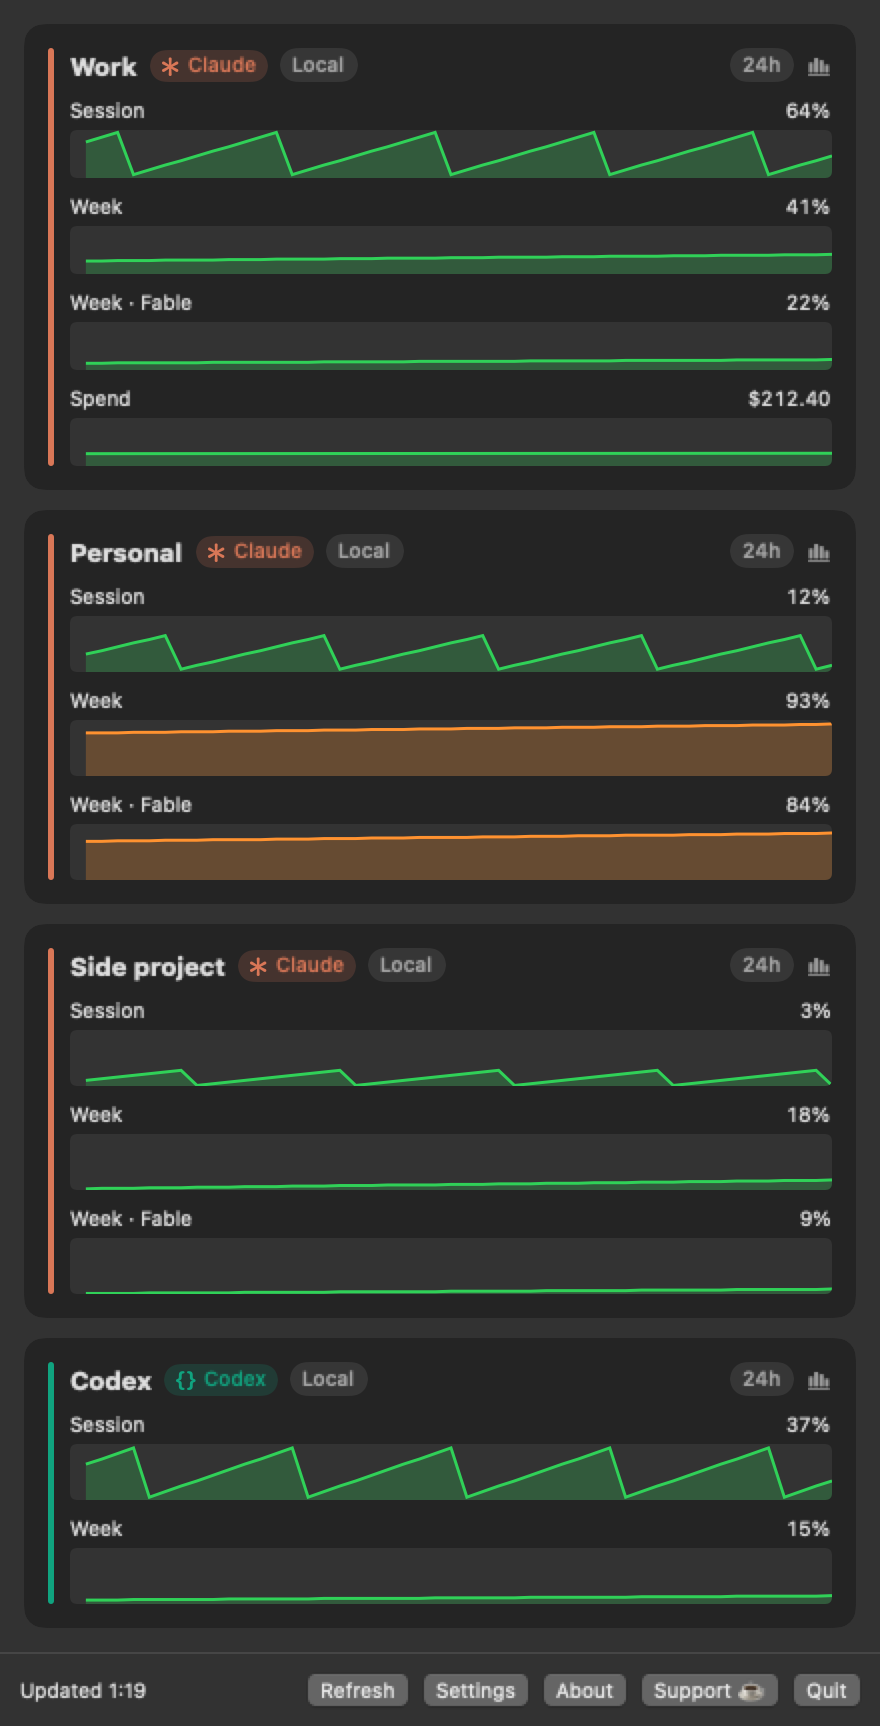
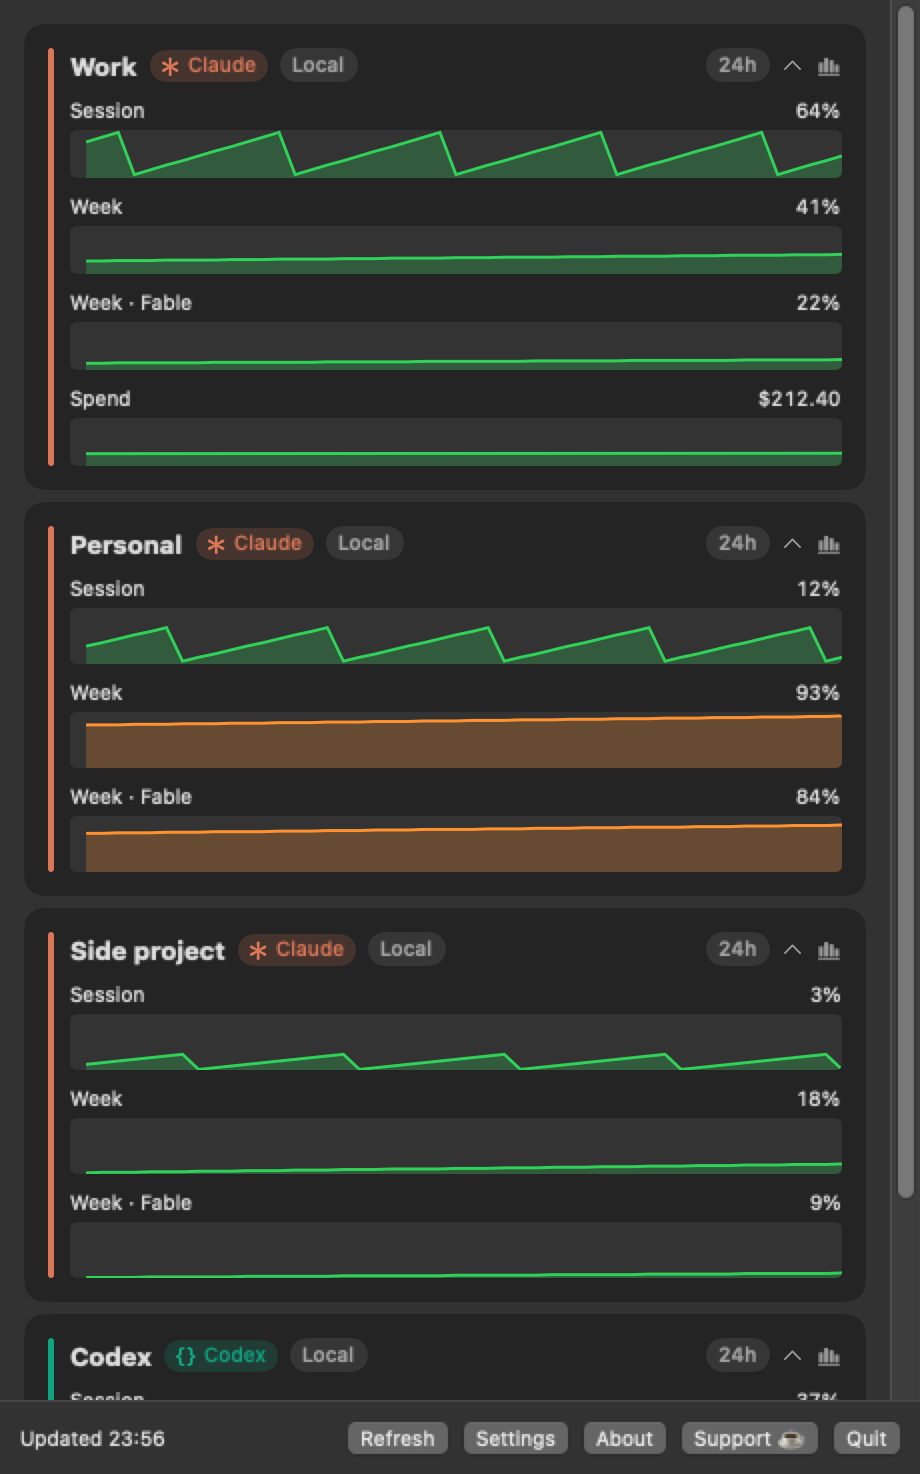
Docs: 1.8.0 screenshots (compact popover, More page, OpenRouter settings, spend rule)
Re-rendered offscreen with fake data: popover.png is the compact popover with
the OpenRouter row and two pinned keys, graphs.png shows expanded cards at the
460 pt width, settings-accounts.png shows the Show in pop-up. New
popover-more.png, settings-openrouter.png and spend-rule.png, referenced from
the README and the user guide. toasts.png is unchanged.

Changed region(s): [[0.0307, 0.0, 1.0, 0.9986], [0.0307, 0.9674, 0.1841, 0.9986]]

diff --git a/Scripts/render-screenshots/Sources/render/main.swift b/Scripts/render-screenshots/Sources/render/main.swift
@@ -99,11 +99,14 @@ MainActor.assumeIsolated {
     store.accounts = snaps.map(\.0)
     for (a, s) in snaps { store.states[a.id] = .ok(s); store.history[a.id] = samples(for: a, snap: s) }
     store.lastRefresh = now
-    render(PopoverView(), size: CGSize(width: 440, height: 0), name: "popover")
+    // Every card expanded and turned over to its graphs.
+    store.expandedAccounts = Set(snaps.map(\.0.id))
     RenderHooks.flipCards = true
-    render(PopoverView(), size: CGSize(width: 440, height: 0), name: "graphs")
+    render(PopoverView(), size: CGSize(width: 460, height: 0), name: "graphs")
     RenderHooks.flipCards = false
-    store.accounts = snaps.map(\.0)
+    store.expandedAccounts = []
+    // One of each placement in the Show in pop-ups.
+    store.accounts = zip(snaps.map(\.0), [Placement.menuBar, .popover, .more, .menuBar]).map { var a = $0; a.placement = $1; return a }
     render(AccountsTab().frame(width: 460, height: 340), size: CGSize(width: 460, height: 340), name: "settings-accounts")
 
     // Compact popover: four Claude accounts (one with an expired login) and Codex, collapsed, then one expanded.
@@ -147,13 +150,13 @@ MainActor.assumeIsolated {
     }
     store.settings.openRouter.managementKeyConfigured = true
     store.openRouterState = .ok(OpenRouterSnapshot(keys: usages, balance: OpenRouterBalance(totalCredits: 100, totalUsage: 57.83)))
-    render(PopoverView(), size: CGSize(width: 460, height: 0), name: "popover-openrouter")
+    render(PopoverView(), size: CGSize(width: 460, height: 0), name: "popover")
     render(PopoverView(), size: CGSize(width: 460, height: 0), name: "popover-openrouter-light", dark: false)
     var archive = claude("Archive", "/Users/example/.claude-archive")
     archive.placement = .more
     store.accounts.append(archive)
     store.states[archive.id] = .ok(snaps[2].1)
-    render(MorePage(filter: .constant(""), onBack: {}, onRepaste: { _ in }), size: CGSize(width: 460, height: 0), name: "more-page")
+    render(MorePage(filter: .constant(""), onBack: {}, onRepaste: { _ in }), size: CGSize(width: 460, height: 0), name: "popover-more")
     store.openRouterState = .stale(OpenRouterSnapshot(keys: usages, balance: OpenRouterBalance(totalCredits: 100, totalUsage: 57.83),
                                                       fetchedAt: now.addingTimeInterval(-720)),
                                    error: "Can't reach OpenRouter: timed out")
@@ -164,13 +167,14 @@ MainActor.assumeIsolated {
     render(PopoverView(), size: CGSize(width: 460, height: 0), name: "popover-openrouter-error")
     render(MorePage(filter: .constant(""), onBack: {}, onRepaste: { _ in }), size: CGSize(width: 460, height: 0), name: "more-page-empty")
 
-    // Settings → OpenRouter (pane size as in SettingsWindow) with the four example rules, then the two sheets.
-    store.openRouterKeys = usages.prefix(11).enumerated().map { index, usage in
+    // Settings → OpenRouter (pane size as in SettingsWindow) with four keys (one pasted) so the four example rules fit, then the two sheets.
+    let settingsKeys = [0, 1, 4, 10].map { usages[$0] }
+    store.openRouterKeys = settingsKeys.enumerated().map { index, usage in
         OpenRouterKeyConfig(id: usage.id, source: usage.error == nil ? .managed : .pasted,
                             placement: index == 0 ? .popover : index == 1 ? .menuBar : .more,
                             lastName: usage.name, lastLabel: usage.label)
     }
-    store.openRouterState = .ok(OpenRouterSnapshot(keys: usages, balance: OpenRouterBalance(totalCredits: 100, totalUsage: 57.83)))
+    store.openRouterState = .ok(OpenRouterSnapshot(keys: settingsKeys, balance: OpenRouterBalance(totalCredits: 100, totalUsage: 57.83)))
     store.spendRules = [
         SpendRule(scope: .allKeys, window: .utcWeek, threshold: 20),
         SpendRule(scope: .eachKey, window: .lastHour, threshold: 5),
@@ -181,7 +185,7 @@ MainActor.assumeIsolated {
     render(OpenRouterTab().frame(width: 520, height: 820), size: CGSize(width: 520, height: 820), name: "settings-openrouter-light", dark: false)
     render(AddOpenRouterKeySheet(), size: CGSize(width: 400, height: 0), name: "add-key-sheet")
     render(SpendRuleSheet(rule: SpendRule(scope: .allKeys, window: .utcWeek, threshold: 20), isNew: true),
-           size: CGSize(width: 440, height: 0), name: "spend-rule-sheet")
+           size: CGSize(width: 440, height: 0), name: "spend-rule")
     render(SpendRuleSheet(rule: store.spendRules[2], isNew: false), size: CGSize(width: 440, height: 0), name: "spend-rule-sheet-cap", dark: false)
     store.openRouterKeys = []
     store.spendRules = []

diff --git a/README.md b/README.md
@@ -8,9 +8,9 @@
 
 A tiny native macOS menu-bar app that polls the usage endpoints **Claude Code** and **Codex**
 use themselves, for **any number of accounts of either** on this Mac (or pasted in from another
-machine), and alerts you — desktop notification, in-app toast with sound, and
-[ntfy](https://ntfy.sh) push to your phone — before a session, weekly, or spend limit runs out
-from under you.
+machine), plus the spend of your **OpenRouter** API keys, and alerts you — desktop notification,
+in-app toast with sound, and [ntfy](https://ntfy.sh) push to your phone — before a session, weekly,
+or spend limit runs out from under you.
 
 [![macOS](https://img.shields.io/badge/macOS-14%2B-000000?logo=apple&logoColor=white)](https://www.apple.com/macos/)
 [![Universal](https://img.shields.io/badge/universal-Apple%20Silicon%20%7C%20Intel-lightgrey)](#requirements)
@@ -31,7 +31,7 @@ brew install --cask roypadina/tap/agents-monitor
 
 <br>
 
-<img src="docs/screenshots/popover.png" alt="Agents Monitor popover: three Claude accounts and one Codex account, each showing Session/Week/Week · Fable progress bars with severity coloring, a pacing tick and a reset countdown, plus a monthly spend row." width="420">
+<img src="docs/screenshots/popover.png" alt="Agents Monitor popover: four Claude accounts and one Codex account as one-line rows with 5h, 7d and Fable meter chips, warning lines under the busy ones, one expired login, then the OpenRouter row with the balance and two pinned keys showing today, week and month spend." width="420">
 
 </div>
 
@@ -54,7 +54,7 @@ Claude Code and the status line in Codex:
 - **Usage graphs** — the chart button on a card turns it over: the same rows as graphs over the
   last 24 hours, 7 days or 30 days (the chip in the card's header switches the span). Every poll
   is kept in `~/Library/Application Support/AgentsMonitor/history.jsonl` for 90 days
-  <br><img src="docs/screenshots/graphs.png" alt="An account card turned over to its graph side: Session, Week, Week · Fable and Spend as line graphs over the last 24 hours." width="393">
+  <br><img src="docs/screenshots/graphs.png" alt="Account cards expanded and turned over to their graph side: Session, Week, Week · Fable and Spend as line graphs over the last 24 hours." width="393">
 - A **"full in ~7h at this pace"** warning under any limit that will run out before it resets at
   the current burn rate
 - A **provider badge** on every account — the agent's mark plus its name, in its own color, with
@@ -68,6 +68,7 @@ Claude Code and the status line in Codex:
   credit balance, or paste single keys. Today / week / month spend (OpenRouter's UTC calendar),
   caps, a **More page** for long key lists, and **spend alerts** ("all keys over $20 this week",
   "each key over $5 in the last hour", "cap below 10% left", "balance below $10")
+  <br><img src="docs/screenshots/popover-more.png" alt="The More page inside the popover: OpenRouter balance and spend today, a key filter, eleven keys with today, week and month spend, cap bars on four of them, one rejected key, and an account placed on the More page." width="420">
 - **Placement** for every account and key: menu bar and popover, popover only, More page, or hidden
 - Menu-bar label, fully configurable (Settings → General + the per-account **Show in**
   pop-up): pick **which accounts** appear, **which value** each one shows (worst limit,
@@ -115,6 +116,12 @@ There's also a dedicated **extra-usage alert**: the moment paid usage starts bei
 then it stays quiet until spending pauses for 30 minutes. That's the signal that a session has
 stopped being covered by your plan and started costing money. Toggle in Settings → Alerts.
 
+**OpenRouter spend alerts** are rules you add in Settings → OpenRouter: spend over an amount (all
+keys combined, each key or one key; today, this week or this month on OpenRouter's UTC calendar, or
+the last hour or 24 hours as measured from the app's own polls), cap left below an amount or
+percent, or the credit balance below an amount. Each rule is a warning or a critical alert, and
+goes out through the same sinks as one "OpenRouter" sender.
+
 Three sinks, each toggleable per account in Settings:
 - **Desktop** — a standard notification (grant permission once when macOS asks on first launch)
 - **ntfy** — a JSON POST to your server/topic, priority 3 (warning) / 4 (critical); each account
@@ -123,9 +130,13 @@ Three sinks, each toggleable per account in Settings:
 - **Toast** — a floating panel top-right with a slide-and-fade animation and a sound
 
 <div align="center">
-<img src="docs/screenshots/settings-accounts.png" alt="Settings, Accounts tab: four accounts with per-account Desktop, ntfy and Menu bar toggles." width="420">
+<img src="docs/screenshots/settings-accounts.png" alt="Settings, Accounts tab: accounts with per-account Desktop and ntfy toggles and a Show in pop-up set to Menu Bar and Popover, Popover or More Page." width="420">
 <br><br>
 <img src="docs/screenshots/toasts.png" alt="Agents Monitor toast notifications stacking top-right: a weekly-limit alert, an extra-usage alert and a Codex session alert." width="420">
+<br><br>
+<img src="docs/screenshots/settings-openrouter.png" alt="Settings, OpenRouter tab: a connected management key with the balance, four keys with their placement pop-ups, and four spend alerts with Desktop and ntfy delivery." width="420">
+<br><br>
+<img src="docs/screenshots/spend-rule.png" alt="The Add Spend Alert sheet: alert when spend, cap left or balance; keys, window, amount and level." width="420">
 </div>
 
 ## Requirements
@@ -197,7 +208,7 @@ dialog. Agents Monitor suppresses that keychain UI and falls back to Apple-signe
 silently — so it works headless, survives rebuilds, and never interrupts you with a password
 prompt. Codex keeps its credentials in a file instead, so that path needs none of this.
 
-The items Agents Monitor saves itself (remote accounts, ntfy access token and fallback URL) are
+The items Agents Monitor saves itself (remote accounts, OpenRouter keys, ntfy access token and fallback URL) are
 created through the same tool, so every new version reads them without a prompt too. Like Claude
 Code's own credentials, they are then readable through `/usr/bin/security` by any process running
 as you.
@@ -212,7 +223,7 @@ as you.
 ## Build & test
 
 ```bash
-swift test --package-path AgentsMonitorKit          # 72 unit tests (parsing for both providers, derivation, alert engine, credentials, settings, menu bar, defaults migration, usage history)
+swift test --package-path AgentsMonitorKit          # 132 unit tests (parsing for both providers and OpenRouter, derivation, alert engine, spend rules, placement, credentials, settings, menu bar, defaults migration, usage history)
 xcodebuild -workspace AgentsMonitor.xcworkspace -scheme AgentsMonitor \
   -configuration Release -derivedDataPath build build
 cp -R build/Build/Products/Release/AgentsMonitor.app /Applications/

diff --git a/docs/USER-GUIDE.md b/docs/USER-GUIDE.md
@@ -46,7 +46,7 @@ Click a row (or its chevron) to **expand** it into the full card described below
 button in the card's header collapses it again. With one or two accounts every row starts expanded.
 Which rows are expanded is remembered until you quit the app.
 
-<img src="screenshots/popover.png" alt="Agents Monitor popover showing three account cards" width="420">
+<img src="screenshots/popover.png" alt="Agents Monitor popover: five accounts as one-line rows with meter chips, one expired login, then the OpenRouter row and two pinned keys" width="420">
 
 **Per limit row** (in the expanded card):
 - **Label** — `Session` (the rolling 5-hour window), `Week` (7-day window), or
@@ -77,7 +77,7 @@ the header to switch, and the bar button to turn it back. Every poll is saved to
 `~/Library/Application Support/AgentsMonitor/history.jsonl` (90 days kept), so the graphs fill
 in as the app runs.
 
-<img src="screenshots/graphs.png" alt="An account card turned over to its graph side, 24-hour span" width="393">
+<img src="screenshots/graphs.png" alt="Account cards expanded and turned over to their graph side, 24-hour span" width="393">
 
 **Error states**, shown in place of the limit rows when something's wrong with that account:
 see the [Troubleshooting table](#troubleshooting) for what each one means and how to fix it.
@@ -223,6 +223,8 @@ each pasted key in `AgentsMonitor-openrouter-key-<UUID>`. Keys are sent only to 
 Disconnecting the management key (**Remove…**, asks once) deletes it from the Keychain and drops the
 keys it listed; pasted keys stay.
 
+<img src="screenshots/settings-openrouter.png" alt="Agents Monitor Settings, OpenRouter tab: management key, keys with placement pop-ups, spend alerts" width="440">
+
 ### The More page
 
 Click the OpenRouter row at the bottom of the popover to open the More page, in the same popover.
@@ -231,6 +233,8 @@ More Page. Each key's ⋯ menu changes its placement on the spot. With more than
 field appears. **Back** (**⌘[**) returns to the main page; **Settings…** opens Settings →
 OpenRouter. When OpenRouter cannot be reached, the summary line keeps the last numbers, says how old
 they are, and offers **Try Again**.
+
+<img src="screenshots/popover-more.png" alt="The More page: OpenRouter balance, a key filter, keys with today, week and month spend and cap bars, and an account placed there" width="420">
 
 ### Spend alerts
 
@@ -261,6 +265,8 @@ cap** / "$1.20 of $20.00 left · below $2.00", **OpenRouter — balance** / "$8.
 Each rule is a warning or a critical alert. They are delivered as one "OpenRouter" sender with its own
 **Desktop** and **ntfy** switches and topic override (Settings → OpenRouter); toast and sound follow
 Settings → General. Untick a rule to pause it.
+
+<img src="screenshots/spend-rule.png" alt="The Add Spend Alert sheet" width="440">
 
 ## Alerts
 

diff --git a/docs/screenshots/README.md b/docs/screenshots/README.md
@@ -1,12 +1,19 @@
 # Screenshots
 
-The images here are rendered offscreen with fake data by `Scripts/render-screenshots`
-(`swift run --package-path Scripts/render-screenshots render <folder>`).
+The images here are rendered offscreen with fake data by `Scripts/render-screenshots`. It writes
+more images than the docs use (light variants, error and empty states), so render into a scratch
+folder and copy the ones below:
 
-Still to capture for the compact popover and OpenRouter release (real app, fake or blurred names,
-no real keys, balances or topics in view):
+```bash
+swift run --package-path Scripts/render-screenshots render /tmp/am-screens
+cp /tmp/am-screens/{popover,popover-more,graphs,settings-accounts,settings-openrouter,spend-rule,toasts}.png docs/screenshots/
+```
 
-- `popover-compact.png`: the popover with several accounts collapsed to one line each.
-- `popover-more.png`: the More page with a list of OpenRouter keys.
-- `settings-openrouter.png`: Settings > OpenRouter with a few keys and spend rules.
-- `spend-rule.png`: the Spend Alert sheet.
+- `popover.png`: the compact popover, four Claude accounts (one with an expired login), Codex, the
+  OpenRouter row and two pinned keys.
+- `popover-more.png`: the More page with the OpenRouter keys, the balance and an account placed there.
+- `graphs.png`: every card expanded and turned over to its graphs.
+- `settings-accounts.png`: Settings > Accounts with the **Show in** pop-up.
+- `settings-openrouter.png`: Settings > OpenRouter with a management key, four keys and spend alerts.
+- `spend-rule.png`: the Add Spend Alert sheet.
+- `toasts.png`: three toast alerts.
